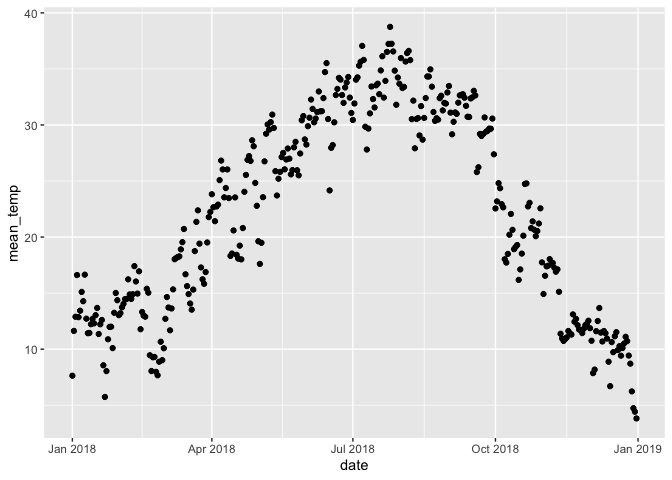
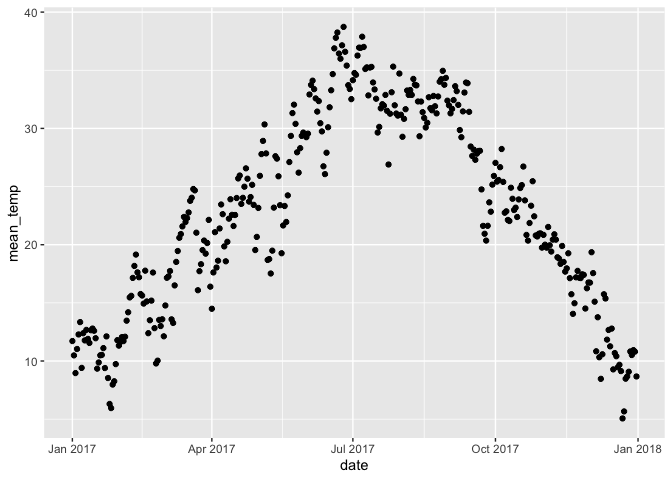
Update Phenome Force workshop notes (#249)
* Change Phenome Force workshop data from season 6 to 4

* Update model section to do logistic growth up to July 1

* Final edits

diff --git a/videos/phenomeforce_2021/walkthrough.md b/videos/phenomeforce_2021/walkthrough.md
@@ -221,7 +221,7 @@ Connect, go to Preferences, to Access, click + button, select local
 folder (maybe Desktop for now), select “Writable” tab)
 
 We’ll need to add the TERRA REF endpoint. In “Search all endpoints” bar
-in upper right, type in \#Terraref. Add endpoint that pops up by
+in upper right, type in ncsa\#terra-public. Add endpoint that pops up by
 clicking on it.
 
 Transfer that RGB image from TERRA REF endpoint to our endpoint. Click
@@ -229,11 +229,11 @@ on File Manager. In left side “Collection” bar, select personal
 endpoint. In right side “Collection” bar, select TERRA REF endpoint.
 
 In right hand file system, navigate to
-`/ua-mac/Level_1_Plots/rgb_geotiff/2018-04-16/MAC Field Scanner Season 6
-Range 44 Column 7/`. Can specify local path too. Transfer to local
-Globus endpoint in same root folder as Dryad data by submitting
-transfer. Can see job by clicking “View details” link in green pop up
-box. Show file locally.
+`/season-6/Level_1_Plots/rgb_geotiff/2018-04-16/MAC Field Scanner
+Season 6 Range 44 Column 7/`. Can specify local path too. Transfer to
+local Globus endpoint in same root folder as Dryad data by submitting
+transfer by clicking blue Start button on right hand side. Can see job
+by clicking “View details” link in green pop up box. Show file locally.
 
 ### Plot - Kristina
 
@@ -279,22 +279,22 @@ columns, noting that `mean` is the actual
 value.
 
 ``` r
-canopy_cover <- read.csv("dryad_data/traits/season_6_traits/season_6_canopy_cover_sensor.csv")
+canopy_cover <- read.csv("dryad_data/traits/season_4_traits/season_4_canopy_cover_sensor.csv")
 str(canopy_cover)
 ```
 
-    ## 'data.frame':    110637 obs. of  12 variables:
-    ##  $ plot          : Factor w/ 780 levels "MAC Field Scanner Season 6 Range 10 Column 1",..: 328 327 316 323 330 671 579 669 22 21 ...
+    ## 'data.frame':    54710 obs. of  12 variables:
+    ##  $ plot          : Factor w/ 778 levels "MAC Field Scanner Season 4 Range 10 Column 1",..: 70 70 70 70 70 70 70 70 70 70 ...
     ##  $ scientificname: Factor w/ 1 level "Sorghum bicolor": 1 1 1 1 1 1 1 1 1 1 ...
-    ##  $ genotype      : Factor w/ 326 levels "PI144134","PI145619",..: 326 326 326 326 93 247 120 185 216 242 ...
-    ##  $ treatment     : Factor w/ 1 level "MAC Season 6: Sorghum": 1 1 1 1 1 1 1 1 1 1 ...
-    ##  $ date          : Factor w/ 86 levels "2018-04-16","2018-04-28",..: 81 81 81 81 81 81 81 81 81 81 ...
+    ##  $ genotype      : Factor w/ 351 levels "Big_Kahuna","PI144134",..: 209 209 209 209 209 209 209 209 209 209 ...
+    ##  $ treatment     : Factor w/ 2 levels "MAC Season 4: BAP water-deficit stress Aug 1-14",..: 2 2 2 2 2 2 2 2 2 2 ...
+    ##  $ date          : Factor w/ 101 levels "2017-04-27","2017-04-28",..: 1 3 4 5 7 8 9 11 12 13 ...
     ##  $ trait         : Factor w/ 1 level "canopy_cover": 1 1 1 1 1 1 1 1 1 1 ...
     ##  $ method        : Factor w/ 1 level "Green Canopy Cover Estimation from Field Scanner RGB images": 1 1 1 1 1 1 1 1 1 1 ...
-    ##  $ mean          : num  70 72.2 71.3 71.7 46.9 ...
+    ##  $ mean          : num  0.000225 0.0866 0.309 2.53 0.366 1.64 1.57 5.75 8.7 7.71 ...
     ##  $ checked       : int  0 0 0 0 0 0 0 0 0 0 ...
     ##  $ author        : Factor w/ 1 level "Zongyang, Li": 1 1 1 1 1 1 1 1 1 1 ...
-    ##  $ season        : Factor w/ 1 level "Season 6": 1 1 1 1 1 1 1 1 1 1 ...
+    ##  $ season        : Factor w/ 1 level "Season 4": 1 1 1 1 1 1 1 1 1 1 ...
     ##  $ method_type   : Factor w/ 1 level "sensor": 1 1 1 1 1 1 1 1 1 1 ...
 
 Note that date is a factor. We’ll need it to be in date format for
@@ -371,13 +371,13 @@ to canopy cover data, cause we’ll combine them later.
 range(canopy_cover$date)
 ```
 
-    ## [1] "2018-04-16" "2018-07-28"
+    ## [1] "2017-04-27" "2017-08-31"
 
-So 2018 data, and we’ll use hourly because we’ll need sub-daily values
+So 2017 data, and we’ll use hourly because we’ll need sub-daily values
 later.
 
 ``` r
-weather <- read.csv("dryad_data/metadata/weather/azmet/azmet_2018_hourly.csv")
+weather <- read.csv("dryad_data/metadata/weather/azmet/azmet_2017_hourly.csv")
 ```
 
 There are no column names. These are in README in `azmet` folder. In
@@ -388,10 +388,10 @@ cover. Then calculate mean temperature. Pull out just date and
 temperature column. Use dplyr tools to get mean daily temp.
 
 ``` r
-temp_2018_daily <- weather %>% 
-  mutate(date = as.Date(X1, origin = "2017-12-31")) %>% 
-  select(date, X4.4) %>% 
-  rename(temperature = X4.4) %>% 
+temp_2017_daily <- weather %>% 
+  mutate(date = as.Date(X1, origin = "2016-12-31")) %>% 
+  select(date, X13.3) %>% 
+  rename(temperature = X13.3) %>% 
   group_by(date) %>% 
   summarize(mean_temp = mean(temperature))
 ```
@@ -399,7 +399,7 @@ temp_2018_daily <- weather %>%
 ### Plot data - Kristina
 
 ``` r
-ggplot(temp_2018_daily, aes(x = date, y = mean_temp)) +
+ggplot(temp_2017_daily, aes(x = date, y = mean_temp)) +
   geom_point()
 ```
 
@@ -420,9 +420,9 @@ calculation in as a new column.
 
 ``` r
 temp_for_gdd <- weather %>% 
-  mutate(date = as.Date(X1, origin = "2017-12-31")) %>% 
-  select(date, X4.4) %>% 
-  rename(temperature = X4.4) %>% 
+  mutate(date = as.Date(X1, origin = "2016-12-31")) %>% 
+  select(date, X13.3) %>% 
+  rename(temperature = X13.3) %>% 
   group_by(date) %>% 
   summarize(min_temp = min(temperature), 
             max_temp = max(temperature), 
@@ -477,15 +477,22 @@ cover_gdd <- left_join(canopy_cover_cultivar, gdd, by = "date") %>%
   select(date, mean, gdd_cum)
 ```
 
+We’re going to only model data up until the peak canopy height.
+
+``` r
+cover_gdd_model <- cover_gdd %>% 
+  filter(date <= as.Date("2017-07-01"))
+```
+
 Before modeling any data, should look at it. With more heat, cover
 increases quite quickly before asymptoting.
 
 ``` r
-ggplot(cover_gdd, aes(x = gdd_cum, y = mean)) +
+ggplot(cover_gdd_model, aes(x = gdd_cum, y = mean)) +
   geom_point()
 ```
 
-![](walkthrough_files/figure-gfm/unnamed-chunk-16-1.png)<!-- -->
+![](walkthrough_files/figure-gfm/unnamed-chunk-17-1.png)<!-- -->
 
 Seems like logistic growth model would be a good fit to these data.
 Wrote a function to model these data. Copy and paste function and point
@@ -494,13 +501,13 @@ out parts.
 ``` r
 model_logistic_growth <- function(data){
   #parameter estimates
-  c <- 90
+  c <- 80
   a <- 0.1
-  y <- cover_gdd$mean[3]
-  g <- cover_gdd$gdd_cum[3]
+  y <- cover_gdd_model %>% filter(date == "2017-06-28") %>% slice(2) %>% select(mean) %>% as.numeric()
+  g <- cover_gdd_model %>% filter(date == "2017-06-28") %>% slice(2) %>% select(gdd_cum) %>% as.numeric()
   b <- ((log((c/y) - 1)) - a)/g
   #model
-  model <- nls(mean ~ c / (1 + exp(a + b * gdd_cum)), 
+  model <- nls(mean ~ c / (1 + exp(a + b * gdd_cum)),
                              start = list(c = c, a = a, b = b),
                              data = data)
   #model coefficients
@@ -517,20 +524,20 @@ Run the logistic model on the dataframe to get out predicted values of
 canopy cover for all GDD values. Add this to dataframe.
 
 ``` r
-cover_gdd$predictions <- model_logistic_growth(cover_gdd)
+cover_gdd_model$predictions <- model_logistic_growth(cover_gdd_model)
 ```
 
 Plot the data like before, and plot model as line using predicted values
 to compare. Looks like a good fit.
 
 ``` r
-ggplot(cover_gdd) +
+ggplot(cover_gdd_model) +
   geom_point(aes(x = gdd_cum, y = mean)) +
   geom_line(aes(x = gdd_cum, y = predictions), color = "orange") +
   labs(x = "Cumulative growing degree days", y = "Canopy Height")
 ```
 
-![](walkthrough_files/figure-gfm/unnamed-chunk-19-1.png)<!-- -->
+![](walkthrough_files/figure-gfm/unnamed-chunk-20-1.png)<!-- -->
 
 ### Wrapup - David
 
